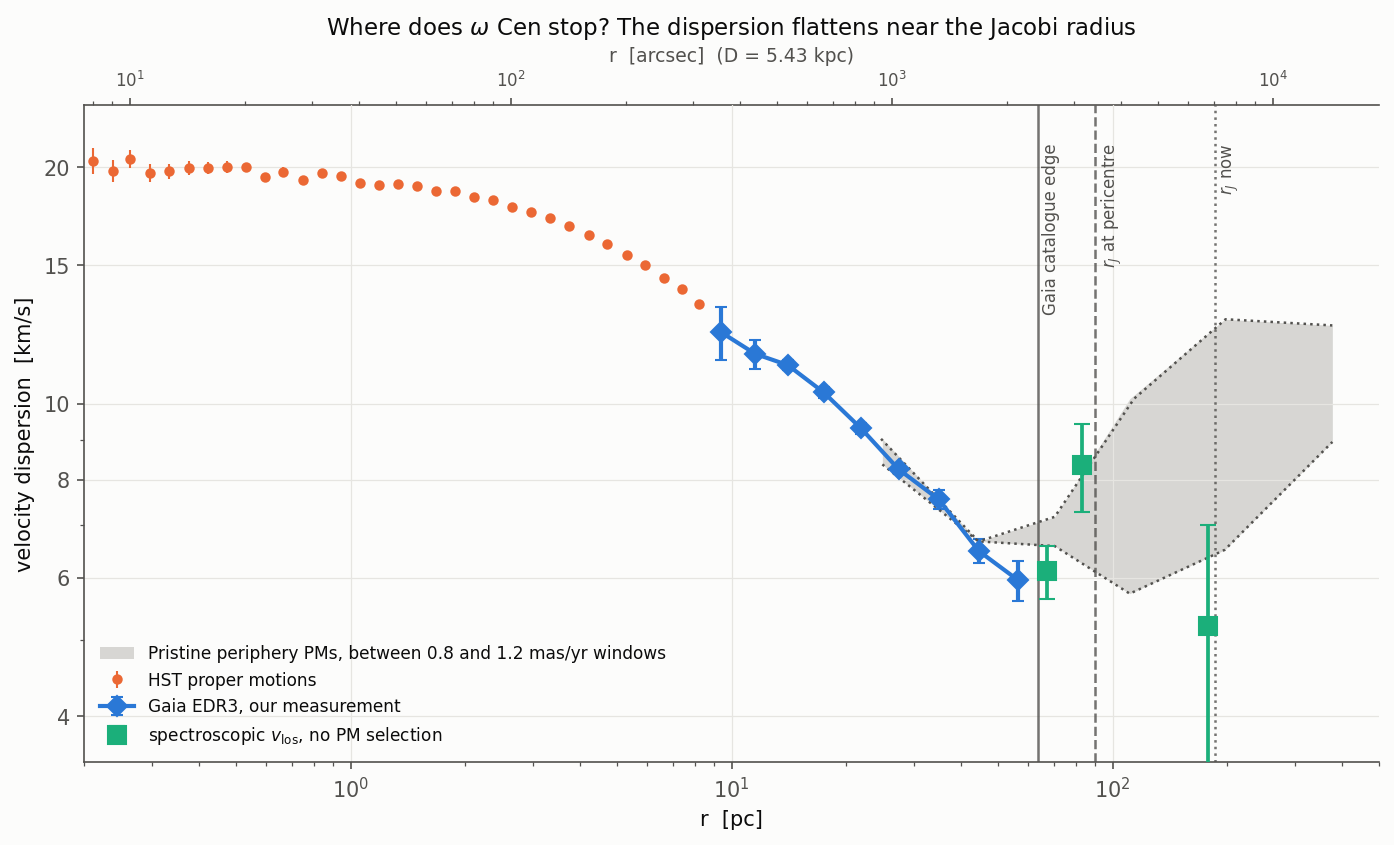
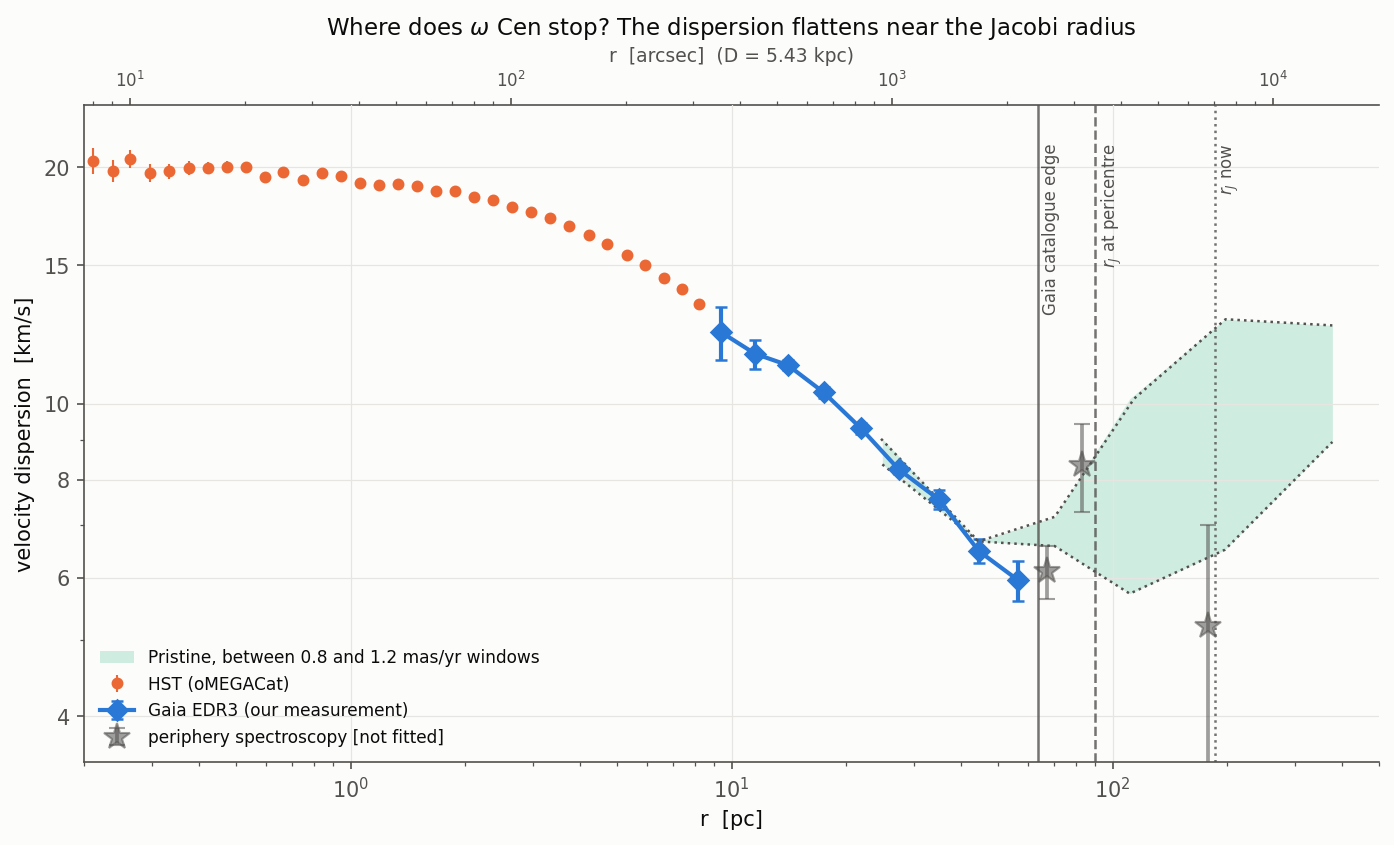
One symbol and colour per dataset; component carried by the marker fill
Adds DATASET_STYLE, DATASET_KEY_MAP, dataset_style() and dataset_label() to
plotting/style.py so figures share one table instead of choosing per figure.

Each dataset gets a fixed colour and symbol: HST orange circle, MUSE amber
square, Gaia DR2 ink plus, Gaia EDR3 blue diamond, Pristine green triangle,
periphery spectroscopy grey star. The radial and tangential components of the
same stars share that symbol and are told apart by matplotlib's half fill, left
for radial and right for tangential, so they read as one measurement split rather
than as two instruments. Context data keep their identity and are lightened.

Five tests pin the invariants: components share symbol and colour and differ only
in fill, every (colour, symbol) pair is unique, unfitted marks keep their
identity, and every likelihood dataset key has an agreed symbol.

Applied to the master, extended-profile and periphery figures.

diff --git a/src/ocen_dm/plotting/constraints.py b/src/ocen_dm/plotting/constraints.py
@@ -1192,23 +1192,25 @@ def plot_periphery(path: Path | str = "plots/periphery_where_the_cluster_ends.pn
     pc = lambda arcsec: np.asarray(arcsec, float) * distance_kpc * 1e3 / 206264.806
 
     fig, ax = plt.subplots(figsize=(9.4, 5.8))
+    from .style import dataset_label, dataset_style
     hst = load_profile("hst_pm_combined")
     ax.errorbar(pc(hst.r), np.asarray(hst.value) * k, yerr=np.asarray(hst.err_lo) * k,
-                fmt="o", ms=4, color=style.SERIES[1], lw=1, label="HST proper motions")
+                linestyle="none", lw=1, label=dataset_label("hst"),
+                **dataset_style("hst", size=4.5))
     g = load_edr3_profile()
     ax.errorbar(pc(g["r_median"]), np.asarray(g["sigma_pm"]) * k,
-                yerr=np.asarray(g["sigma_pm_err"]) * k, fmt="D-", ms=7, lw=2,
-                color=style.SERIES[0], capsize=3, label="Gaia EDR3, our measurement")
+                yerr=np.asarray(g["sigma_pm_err"]) * k, linestyle="-", lw=2, capsize=3,
+                label=dataset_label("gaia_edr3"), **dataset_style("gaia_edr3", size=7))
     lo_w, hi_w = periphery_pm_profile(0.8), periphery_pm_profile(1.2)
     ax.fill_between(lo_w["r_pc"], lo_w["sigma_kms"], hi_w["sigma_kms"],
-                    color=style.COLOR_FIELD, alpha=0.55, lw=0,
-                    label="Pristine periphery PMs, between 0.8 and 1.2 mas/yr windows")
+                    color=style.SERIES[2], alpha=0.20, lw=0,
+                    label="Pristine, between 0.8 and 1.2 mas/yr windows")
     ax.plot(lo_w["r_pc"], lo_w["sigma_kms"], color=style.INK_SECONDARY, lw=1.2, ls=":")
     ax.plot(hi_w["r_pc"], hi_w["sigma_kms"], color=style.INK_SECONDARY, lw=1.2, ls=":")
     los = periphery_los_profile()
-    ax.errorbar(los["r_pc"], los["sigma_kms"], yerr=los["sigma_kms_err"], fmt="s", ms=9,
-                color=style.SERIES[2], lw=1.8, capsize=4, zorder=6,
-                label="spectroscopic $v_{\\rm los}$, no PM selection")
+    ax.errorbar(los["r_pc"], los["sigma_kms"], yerr=los["sigma_kms_err"], linestyle="none",
+                lw=1.8, capsize=4, zorder=6, label=dataset_label("spectro", fitted=False),
+                **dataset_style("spectro", size=13, fitted=False))
     for x_, lab, ls in ((pc(GAIA_EDGE_DEG * 3600), "Gaia catalogue edge", "-"),
                         (R_JACOBI_PERI_PC, "$r_J$ at pericentre", "--"),
                         (R_JACOBI_NOW_PC, "$r_J$ now", ":")):
@@ -1327,28 +1329,30 @@ def plot_extended_profile(path: Path | str = "plots/profile_extended_pristine.pn
 
     fig, (a1, a2) = plt.subplots(1, 2, figsize=(13.4, 5.8),
                                  gridspec_kw={"width_ratios": [1.5, 1]})
+    from .style import dataset_label, dataset_style
     hst = load_profile("hst_pm_combined")
     a1.errorbar(pc(hst.r), np.asarray(hst.value) * k, yerr=np.asarray(hst.err_lo) * k,
-                fmt="o", ms=3.5, color=style.SERIES[1], lw=0.9, label="HST")
+                linestyle="none", lw=0.9, label=dataset_label("hst"),
+                **dataset_style("hst", size=4.0))
     a1.errorbar(pc(g["r_median"]), np.asarray(g["sigma_pm"]) * k,
-                yerr=np.asarray(g["sigma_pm_err"]) * k, fmt="D-", ms=6.5, lw=2,
-                color=style.SERIES[0], capsize=3, label="Gaia EDR3, our mixture")
+                yerr=np.asarray(g["sigma_pm_err"]) * k, linestyle="-", lw=2, capsize=3,
+                label=dataset_label("gaia_edr3"), **dataset_style("gaia_edr3", size=6.5))
     ok = np.asarray(wide["reliable"], bool)
     a1.errorbar(np.asarray(wide["r_pc"])[ok], np.asarray(wide["sigma_kms"])[ok],
-                yerr=np.asarray(wide["sigma_kms_err"])[ok], fmt="^-", ms=9, lw=2,
-                color=style.SERIES[2], capsize=3, zorder=6,
-                label="Pristine, same mixture, no PM cut")
+                yerr=np.asarray(wide["sigma_kms_err"])[ok], linestyle="-", lw=2, capsize=3,
+                zorder=6, label=dataset_label("pristine") + ", same mixture, no PM cut",
+                **dataset_style("pristine", size=9))
     a1.errorbar(np.asarray(wide["r_pc"])[~ok], np.asarray(wide["sigma_kms"])[~ok],
-                yerr=np.asarray(wide["sigma_kms_err"])[~ok], fmt="^", ms=8, mfc="white",
-                color=style.SERIES[2], lw=1.1, alpha=0.75,
-                label="Pristine, fewer than 10 cluster stars: not a measurement")
+                yerr=np.asarray(wide["sigma_kms_err"])[~ok], linestyle="none", lw=1.1,
+                label="Pristine, fewer than 10 cluster stars: not a measurement",
+                **dataset_style("pristine", size=8, fitted=False))
     w = periphery_pm_profile(0.8)
-    a1.plot(w["r_pc"], w["sigma_kms"], ":", color=style.INK_SECONDARY, lw=1.6,
+    a1.plot(w["r_pc"], w["sigma_kms"], ":", color=style.SERIES[2], lw=1.6, alpha=0.8,
             label="Pristine read through a fixed 0.8 mas/yr window")
     los = periphery_los_profile()
-    a1.errorbar(los["r_pc"], los["sigma_kms"], yerr=los["sigma_kms_err"], fmt="s", ms=8,
-                color=style.SERIES_EXTRA, lw=1.6, capsize=4, zorder=7,
-                label="spectroscopic $v_{\\rm los}$")
+    a1.errorbar(los["r_pc"], los["sigma_kms"], yerr=los["sigma_kms_err"], linestyle="none",
+                lw=1.6, capsize=4, zorder=7, label=dataset_label("spectro", fitted=False),
+                **dataset_style("spectro", size=13, fitted=False))
     a1.axvline(R_JACOBI_PERI_PC, color=style.INK_SECONDARY, lw=1.2, ls="--")
     a1.annotate("$r_J$ pericentre", (R_JACOBI_PERI_PC * 1.05, 4.2), rotation=90, fontsize=8,
                 color=style.INK_SECONDARY)
@@ -1376,8 +1380,8 @@ def plot_extended_profile(path: Path | str = "plots/profile_extended_pristine.pn
     a2.axhspan(wmean - wsig, wmean + wsig, color=style.SERIES[2], alpha=0.18, lw=0)
     a2.axhline(wmean, color=style.SERIES[2], lw=1.6, ls="--",
                label="weighted mean %.3f $\\pm$ %.3f" % (wmean, wsig))
-    a2.errorbar(matched["r_pc"], ratio, yerr=rerr, fmt="o", ms=7, color=style.SERIES[2],
-                lw=1.5, capsize=3)
+    a2.errorbar(matched["r_pc"], ratio, yerr=rerr, linestyle="none", lw=1.5, capsize=3,
+                **dataset_style("pristine", size=8))
     a2.set_xscale("log"); a2.set_xlabel("r  [pc]")
     a2.set_ylabel("Pristine / Gaia, identical annuli")
     a2.set_ylim(0.78, 1.22); a2.legend(fontsize=8.5, loc="upper left")
@@ -1389,26 +1393,20 @@ def plot_extended_profile(path: Path | str = "plots/profile_extended_pristine.pn
     return path
 
 
-#: how each dataset key is drawn in the master figure
-_MASTER_STYLE = {
-    "hst_pm_radial":       ("HST, radial PM",        "o", 4.0, 1),
-    "hst_pm_tangential":   ("HST, tangential PM",    "^", 4.5, 5),
-    "muse_los_dispersion": ("MUSE, line of sight",   "s", 4.5, 3),
-    "gaia_dr2_pm":         ("Gaia DR2 PM (published)", "P", 7.0, 4),
-    "gaia_edr3_ours":      ("Gaia EDR3 PM (our measurement)", "D", 7.0, 0),
-}
-
-
 def plot_master_datasets(path: Path | str = "plots/master_datasets.png",
                          datasets: str | None = None, distance_kpc: float = 5.43) -> Path:
     """Everything the likelihood is shown, in one figure, in km/s.
 
-    Top: every dataset in the default likelihood, converted to km/s at the fitted distance so
-    proper motions and line-of-sight velocities share an axis, with the data that exist but
-    are deliberately not fitted drawn faintly behind. Our Gaia measurement is drawn both as
-    the combination the likelihood receives and as the separate radial and tangential
-    components it is built from. Middle: the anisotropy those components imply. Bottom: what
-    each dataset covers and how many points it contributes.
+    One symbol and one colour per dataset throughout (:data:`ocen_dm.plotting.style.
+    DATASET_STYLE`); the radial and tangential components of the same stars share that
+    symbol and are told apart by the marker fill, left for radial and right for tangential,
+    so they read as one measurement split rather than as two instruments. Data shown for
+    context but not fitted keep their symbol and are lightened.
+
+    Top: every dataset in the default likelihood, converted to km/s at the fitted distance
+    so proper motions and line-of-sight velocities share an axis. Middle: the anisotropy
+    implied by the components. Bottom: what each dataset covers and how many points it
+    contributes.
     """
     from ..cli import DEFAULT_DATASETS
     from ..kinematics.likelihood import load_profile
@@ -1417,55 +1415,55 @@ def plot_master_datasets(path: Path | str = "plots/master_datasets.png",
                                         periphery_los_profile)
     from ..kinematics.pristine_profile import pristine_profile
     from ..kinematics.vb2021_replication import published_profile
+    from .style import dataset_label, dataset_style
     style.apply()
     keys = (datasets or DEFAULT_DATASETS).split(",")
     k = KMS_PER_MASYR_KPC * distance_kpc
     pc = lambda a: np.asarray(a, float) * distance_kpc * 1e3 / 206264.806
     g = load_edr3_profile()
     pr = pristine_profile()
-    pr_ok = np.asarray(pr["reliable"], bool)
+    ok = np.asarray(pr["reliable"], bool)
 
-    fig, (a1, a3, a2) = plt.subplots(3, 1, figsize=(10.4, 11.4), sharex=True,
+    def draw(ax, x, y, yerr, key, component="combined", fitted=True, size=6.5, ls="none", **kw):
+        st = dataset_style(key, component, size=size, fitted=fitted)
+        return ax.errorbar(x, y, yerr=yerr, linestyle=ls, lw=1.4, capsize=2,
+                           label=dataset_label(key, component, fitted), zorder=5 if fitted else 3,
+                           **st, **kw)
+
+    fig, (a1, a3, a2) = plt.subplots(3, 1, figsize=(10.6, 11.6), sharex=True,
                                      gridspec_kw={"height_ratios": [2.5, 1.15, 1.0]})
 
-    # --- context: real data that is deliberately NOT in the likelihood -------------
+    # --- context: real data that exists but is not fitted --------------------------
     rp, sp = published_profile()
-    a1.plot(pc(rp[rp > 0]), sp[rp > 0] * k, color=style.INK_SECONDARY, lw=1.4, ls="--",
-            alpha=0.55, label="not fitted: published EDR3 spline (inner part is extrapolation)")
-    a1.errorbar(np.asarray(pr["r_pc"])[pr_ok], np.asarray(pr["sigma_kms"])[pr_ok],
-                yerr=np.asarray(pr["sigma_kms_err"])[pr_ok], fmt="v", ms=8, mfc="white",
-                color=style.SERIES[2], lw=1.3, alpha=0.9,
-                label="not fitted: Pristine PM, same mixture")
+    a1.plot(pc(rp[rp > 0]), sp[rp > 0] * k, color=style.SERIES[0], lw=1.4, ls="--", alpha=0.5,
+            label="Gaia EDR3 published spline [not fitted]")
+    draw(a1, np.asarray(pr["r_pc"])[ok], np.asarray(pr["sigma_kms"])[ok],
+         np.asarray(pr["sigma_kms_err"])[ok], "pristine", fitted=False, size=8)
     los = periphery_los_profile()
-    a1.errorbar(los["r_pc"], los["sigma_kms"], yerr=los["sigma_kms_err"], fmt="*", ms=13,
-                mfc="white", color=style.SERIES_EXTRA, lw=1.3, alpha=0.9,
-                label="not fitted: periphery spectroscopy")
+    draw(a1, los["r_pc"], los["sigma_kms"], los["sigma_kms_err"], "spectro", fitted=False, size=13)
 
     # --- the likelihood's own data -------------------------------------------------
     spans = []
     for key in keys:
         p = load_profile(key)
-        label, marker, ms, ci = _MASTER_STYLE.get(key, (key, "o", 5.0, 2))
         scale = 1.0 if p.kind == "los" else k
-        colour = (style.SERIES + (style.SERIES_EXTRA, style.INK, style.SERIES[1]))[ci]
-        face = "white" if key == "hst_pm_tangential" else colour
-        a1.errorbar(pc(p.r), np.asarray(p.value) * scale,
-                    yerr=[np.asarray(p.err_lo) * scale, np.asarray(p.err_hi) * scale],
-                    fmt=marker, ms=ms, color=colour, mfc=face, lw=1.2, capsize=2,
-                    zorder=5, label=label)
-        spans.append((label, pc(p.r).min(), pc(p.r).max(), len(p.r), colour, p.kind))
+        draw(a1, pc(p.r), np.asarray(p.value) * scale,
+             [np.asarray(p.err_lo) * scale, np.asarray(p.err_hi) * scale], key,
+             size=4.5 if p.instrument in ("HST", "MUSE") else 7.0)
+        st = dataset_style(key)
+        spans.append((dataset_label(key), pc(p.r).min(), pc(p.r).max(), len(p.r), st["color"]))
 
-    # our Gaia measurement, split into the components the likelihood does not see
+    # our Gaia measurement, split into the components the likelihood does not receive
     if "gaia_edr3_ours" in keys:
-        for col, mark, lab in (("sigma_pmr", "<", "radial"), ("sigma_pmt", ">", "tangential")):
-            a1.plot(pc(g["r_median"]), np.asarray(g[col]) * k, mark + ":", ms=5.5, lw=1.0,
-                    color=style.SERIES[0], mfc="white", alpha=0.85,
-                    label="Gaia EDR3, %s component (measured, NOT fitted separately)" % lab)
+        for col, comp in (("sigma_pmr", "radial"), ("sigma_pmt", "tangential")):
+            st = dataset_style("gaia_edr3", comp, size=5.5)
+            a1.plot(pc(g["r_median"]), np.asarray(g[col]) * k, ls=":", lw=1.0, **st,
+                    label="Gaia EDR3 (our measurement), %s [measured, not fitted apart]" % comp)
 
-    a1.axvspan(0.03, 300 * distance_kpc * 1e3 / 206264.806, color=style.SERIES[1],
-               alpha=0.045, lw=0)
-    a1.annotate("no Gaia EDR3 passes the quality flag\ninside 200 arcsec; 5 stars at 200-300",
-                (0.9, 4.3), fontsize=8, color=style.SERIES[1], ha="center")
+    a1.axvspan(0.03, 200 * distance_kpc * 1e3 / 206264.806, color=style.SERIES[0],
+               alpha=0.05, lw=0)
+    a1.annotate("no Gaia EDR3 star passes\nthe quality flag here", (0.55, 24.0), fontsize=8.5,
+                color=style.SERIES[0], ha="center", va="top")
     a1.axvline(R_JACOBI_PERI_PC, color=style.INK_SECONDARY, lw=1.2, ls=":")
     a1.annotate("$r_J$ pericentre", (R_JACOBI_PERI_PC * 1.05, 4.3), rotation=90, fontsize=8,
                 color=style.INK_SECONDARY)
@@ -1479,29 +1477,28 @@ def plot_master_datasets(path: Path | str = "plots/master_datasets.png",
 
     # --- anisotropy ----------------------------------------------------------------
     hr, ht = load_profile("hst_pm_radial"), load_profile("hst_pm_tangential")
-    ratio_h = np.asarray(ht.value) / np.asarray(hr.value)
-    err_h = ratio_h * np.hypot(np.asarray(ht.err_lo) / np.asarray(ht.value),
-                               np.asarray(hr.err_lo) / np.asarray(hr.value))
-    a3.errorbar(pc(hr.r), ratio_h, yerr=err_h, fmt="o", ms=3.5, color=style.SERIES[1],
-                lw=0.9, label="HST (fitted as two datasets)")
-    rg = np.asarray(g["sigma_pmt"]) / np.asarray(g["sigma_pmr"])
-    a3.plot(pc(g["r_median"]), rg, "D-", ms=6.5, lw=1.8, color=style.SERIES[0],
-            label="Gaia EDR3, ours (fitted only as the combination)")
-    rp2 = np.asarray(pr["sigma_pmt"])[pr_ok] / np.asarray(pr["sigma_pmr"])[pr_ok]
-    a3.plot(np.asarray(pr["r_pc"])[pr_ok], rp2, "v", ms=7, mfc="white",
-            color=style.SERIES[2], label="Pristine (not fitted)")
+    rh = np.asarray(ht.value) / np.asarray(hr.value)
+    eh = rh * np.hypot(np.asarray(ht.err_lo) / np.asarray(ht.value),
+                       np.asarray(hr.err_lo) / np.asarray(hr.value))
+    st = dataset_style("hst", "combined", size=4.0)
+    a3.errorbar(pc(hr.r), rh, yerr=eh, linestyle="none", lw=0.9, label="HST", **st)
+    st = dataset_style("gaia_edr3", "combined", size=6.5)
+    a3.plot(pc(g["r_median"]), np.asarray(g["sigma_pmt"]) / np.asarray(g["sigma_pmr"]),
+            ls="-", lw=1.8, label="Gaia EDR3, ours", **st)
+    st = dataset_style("pristine", "combined", size=7.0, fitted=False)
+    a3.plot(np.asarray(pr["r_pc"])[ok],
+            np.asarray(pr["sigma_pmt"])[ok] / np.asarray(pr["sigma_pmr"])[ok],
+            ls="none", label="Pristine [not fitted]", **st)
     a3.axhline(1.0, color=style.INK_SECONDARY, lw=1.5)
-    a3.annotate("tangentially biased", (170, 1.15), fontsize=8, color=style.INK_SECONDARY,
-                ha="right")
-    a3.annotate("radially biased", (170, 0.77), fontsize=8, color=style.INK_SECONDARY,
-                ha="right")
+    a3.annotate("tangentially biased", (75, 1.22), fontsize=8, color=style.INK_SECONDARY, ha="right")
+    a3.annotate("radially biased", (75, 0.755), fontsize=8, color=style.INK_SECONDARY, ha="right")
     a3.axvline(R_JACOBI_PERI_PC, color=style.INK_SECONDARY, lw=1.2, ls=":")
     a3.set_xscale("log"); a3.set_ylim(0.72, 1.28)
     a3.set_ylabel(r"$\sigma_T / \sigma_R$")
-    a3.legend(fontsize=8, loc="upper left", ncol=1, framealpha=0.93)
+    a3.legend(fontsize=8, loc="upper left", ncol=3, framealpha=0.93)
 
     # --- coverage ------------------------------------------------------------------
-    for i, (label, lo, hi, n, colour, kind) in enumerate(spans):
+    for i, (label, lo, hi, n, colour) in enumerate(spans):
         y = len(spans) - i
         a2.plot([lo, hi], [y, y], lw=7, color=colour, solid_capstyle="round", alpha=0.9)
         a2.annotate("%d points" % n, (hi, y), textcoords="offset points", xytext=(9, -3),
@@ -1511,8 +1508,8 @@ def plot_master_datasets(path: Path | str = "plots/master_datasets.png",
     a2.axvline(R_JACOBI_PERI_PC, color=style.INK_SECONDARY, lw=1.2, ls=":")
     a2.set_ylim(0.3, len(spans) + 0.7); a2.set_yticks([])
     a2.set_xscale("log"); a2.set_xlabel("r  [pc]"); a2.set_xlim(0.03, 300)
-    total = sum(s[3] for s in spans)
-    a2.set_title("radial coverage and weight: %d points in total" % total, fontsize=10)
+    a2.set_title("radial coverage and weight: %d points in total" % sum(s[3] for s in spans),
+                 fontsize=10)
     fig.tight_layout()
     path = Path(path); path.parent.mkdir(parents=True, exist_ok=True)
     fig.savefig(path, dpi=150, bbox_inches="tight"); plt.close(fig)

diff --git a/src/ocen_dm/plotting/style.py b/src/ocen_dm/plotting/style.py
@@ -95,3 +95,61 @@ def add_arcsec_axis(ax, distance_kpc: float, per_unit_pc: float = 1.0, label: st
                    color=INK_SECONDARY, fontsize=9)
     sec.tick_params(colors=INK_SECONDARY, labelsize=8)
     return sec
+
+
+# --------------------------------------------------------------------- datasets ---
+# One symbol and one colour per dataset, used identically in every figure. The
+# component is carried by the marker fill, never by a different symbol, so a radial
+# and a tangential measurement of the same stars are visibly the same measurement:
+#   full  = the scalar quantity (combined PM dispersion, or a line-of-sight one)
+#   left  = radial component
+#   right = tangential component
+DATASET_STYLE = {
+    "hst":       {"color": SERIES[1], "marker": "o", "label": "HST (oMEGACat)"},
+    "muse":      {"color": SERIES_EXTRA, "marker": "s", "label": "MUSE, line of sight"},
+    "gaia_dr2":  {"color": INK, "marker": "P", "label": "Gaia DR2 (published)"},
+    "gaia_edr3": {"color": SERIES[0], "marker": "D", "label": "Gaia EDR3 (our measurement)"},
+    "pristine":  {"color": SERIES[2], "marker": "v", "label": "Pristine periphery"},
+    "spectro":   {"color": INK_SECONDARY, "marker": "*", "label": "periphery spectroscopy"},
+}
+
+#: dataset key of the likelihood -> (style key, component)
+DATASET_KEY_MAP = {
+    "hst_pm_radial": ("hst", "radial"),
+    "hst_pm_tangential": ("hst", "tangential"),
+    "hst_pm_combined": ("hst", "combined"),
+    "muse_los_dispersion": ("muse", "combined"),
+    "gaia_dr2_pm": ("gaia_dr2", "combined"),
+    "gaia_edr3_pm": ("gaia_edr3", "combined"),
+    "gaia_edr3_ours": ("gaia_edr3", "combined"),
+}
+
+_FILL = {"combined": "full", "radial": "left", "tangential": "right"}
+
+
+def dataset_style(key: str, component: str = "combined", size: float = 6.5,
+                  fitted: bool = True) -> dict:
+    """Marker keyword arguments for one dataset and component.
+
+    ``fitted=False`` keeps the same symbol and colour and lightens the mark, so that data
+    shown for context are never mistaken for a different instrument.
+    """
+    if key in DATASET_KEY_MAP:
+        key, component = DATASET_KEY_MAP[key]
+    spec = DATASET_STYLE[key]
+    kw = {"color": spec["color"], "marker": spec["marker"], "markersize": size,
+          "fillstyle": _FILL[component], "markerfacecoloralt": SURFACE,
+          "markeredgewidth": 1.2, "alpha": 1.0 if fitted else 0.55}
+    if not fitted:
+        kw["markeredgewidth"] = 1.0
+    return kw
+
+
+def dataset_label(key: str, component: str = "combined", fitted: bool = True) -> str:
+    """Legend text matching :func:`dataset_style`."""
+    if key in DATASET_KEY_MAP:
+        key, component = DATASET_KEY_MAP[key]
+    text = DATASET_STYLE[key]["label"]
+    if component != "combined":
+        text += ", %s" % component
+    return text if fitted else "%s [not fitted]" % text

diff --git a/tests/test_dataset_style.py b/tests/test_dataset_style.py
@@ -1,0 +1,49 @@
+"""One symbol and one colour per dataset; the component is carried by the fill only."""
+
+from __future__ import annotations
+
+import pytest
+
+from ocen_dm.plotting.style import (DATASET_KEY_MAP, DATASET_STYLE, dataset_label,
+                                    dataset_style)
+
+
+def test_components_share_symbol_and_colour():
+    for key in DATASET_STYLE:
+        base = dataset_style(key, "combined")
+        for comp in ("radial", "tangential"):
+            st = dataset_style(key, comp)
+            assert st["marker"] == base["marker"], f"{key}/{comp} changed symbol"
+            assert st["color"] == base["color"], f"{key}/{comp} changed colour"
+            assert st["fillstyle"] != base["fillstyle"], f"{key}/{comp} is not distinguishable"
+    assert dataset_style("hst", "radial")["fillstyle"] == "left"
+    assert dataset_style("hst", "tangential")["fillstyle"] == "right"
+
+
+def test_radial_and_tangential_datasets_map_to_one_instrument():
+    r, t = DATASET_KEY_MAP["hst_pm_radial"], DATASET_KEY_MAP["hst_pm_tangential"]
+    assert r[0] == t[0] == "hst"
+    assert (r[1], t[1]) == ("radial", "tangential")
+    assert dataset_style("hst_pm_radial")["marker"] == dataset_style("hst_pm_tangential")["marker"]
+
+
+def test_every_symbol_and_colour_is_unique_across_datasets():
+    pairs = [(v["color"], v["marker"]) for v in DATASET_STYLE.values()]
+    assert len(set(pairs)) == len(pairs), "two datasets would be indistinguishable"
+    assert len({v["marker"] for v in DATASET_STYLE.values()}) == len(DATASET_STYLE)
+
+
+def test_unfitted_data_keeps_its_identity():
+    a = dataset_style("pristine", fitted=True)
+    b = dataset_style("pristine", fitted=False)
+    assert a["marker"] == b["marker"] and a["color"] == b["color"]
+    assert b["alpha"] < a["alpha"]
+    assert "not fitted" in dataset_label("pristine", fitted=False)
+
+
+def test_every_likelihood_key_has_a_style():
+    from ocen_dm.cli import DEFAULT_DATASETS
+    from ocen_dm.kinematics.likelihood import DATASETS
+    for key in list(DATASETS) + DEFAULT_DATASETS.split(","):
+        assert key in DATASET_KEY_MAP, f"{key} has no agreed symbol"
+        dataset_style(key)
